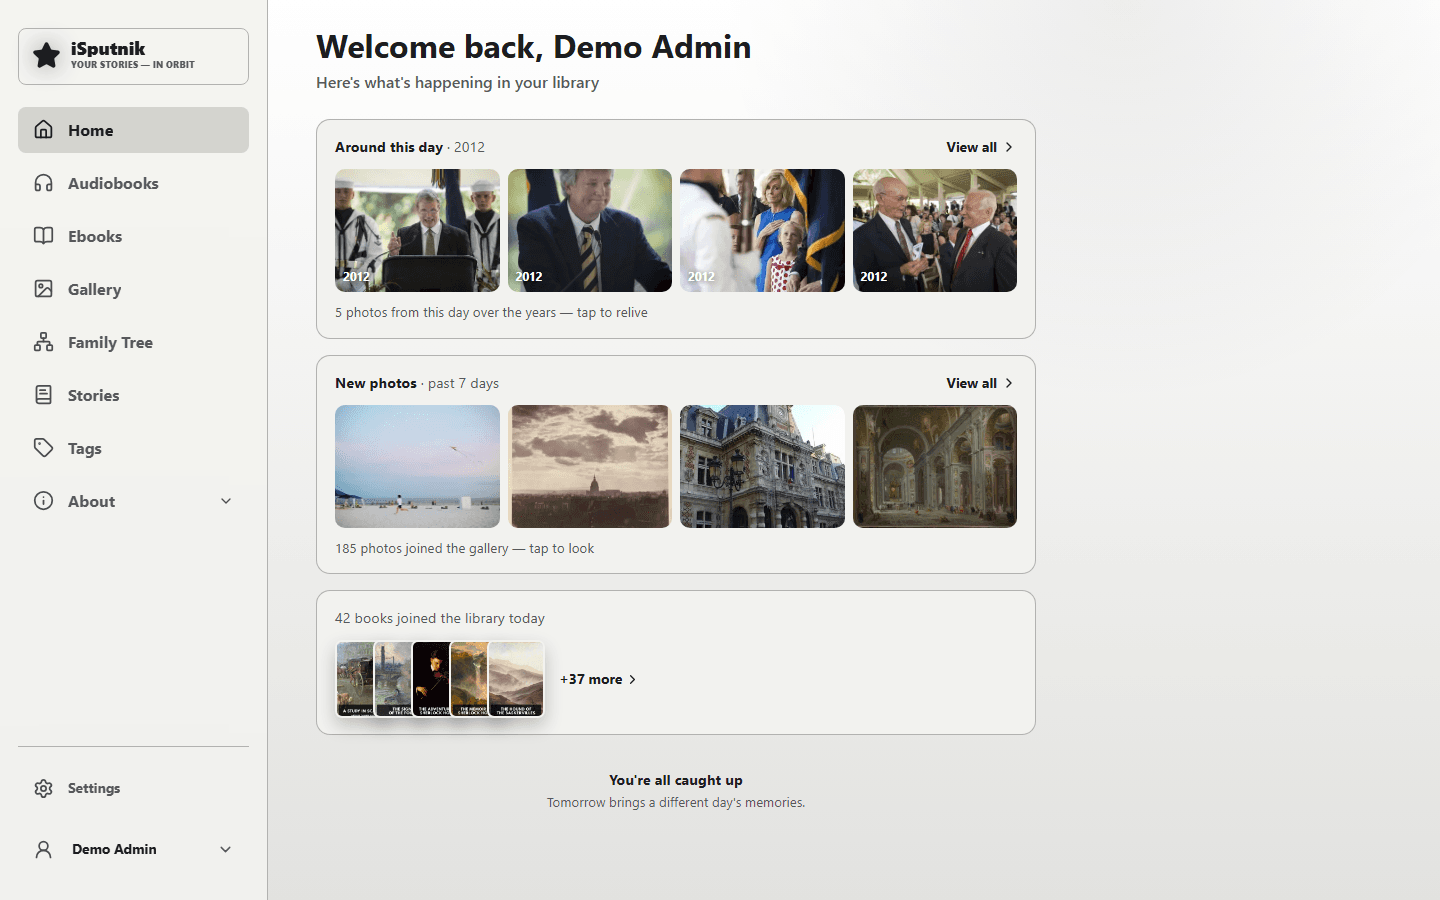
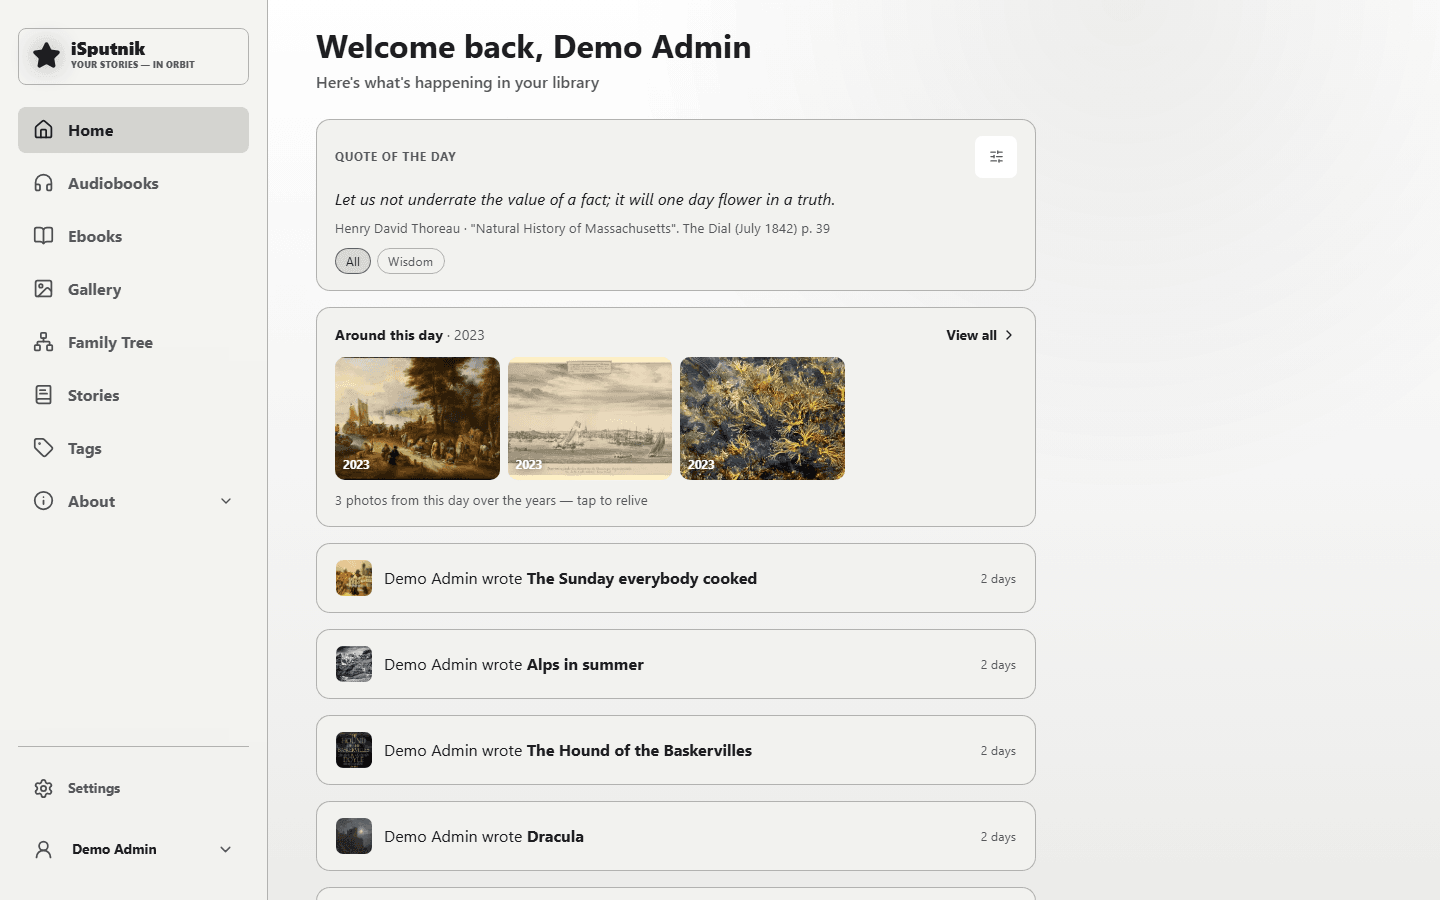
docs(guides): illustrate quotes and stories
Five more screenshots, taking the set to 31 and the guides that carry one to
18 of 19. Only family-sharing is left, and it needs a second account and a
group before there is anything to photograph.

Quotes needed content first. The English pack that ships in
scripts/quote-packs was imported into the demo library — 100 quotes from 17
authors, every one of whom died more than seventy years ago, so the
quotations themselves are public domain. Wikiquote's compilation is CC BY-SA,
which would matter only if the pack were republished, not for quoting Thoreau
in a screenshot.

02-home is recaptured as a side effect: the quote of the day only appears once
something is in rotation, so the old shot of the home page was missing the
card the quotes guide points at.

The two story shots open the index and click through by title. A story's
address contains its id, which differs on every install, so deep-linking would
have produced shots that only reproduce on the machine that took them. The
first attempt matched anchors with startsWith and silently photographed the
index twice — a story card's text begins with its status badge, so the title
is in the middle, not at the front.

Also corrects the workbox comment: the guides are nineteen files and ~160 KB
of text, and their screenshots are ~3 MB, not the twelve files and 1.8 MB it
claimed. The screenshots stay out of the precache, which the build confirms —
19 guides precached, 0 images.

diff --git a/apps/web/vite.config.ts b/apps/web/vite.config.ts
@@ -95,8 +95,8 @@ export default defineConfig({
       },
       workbox: {
         // Precache the app shell so the UI boots with no network. The guides are
-        // included — all twelve are ~55 KB of text, and help is exactly what you
-        // want when something isn't working. Their screenshots are ~1.8 MB and
+        // included — all nineteen are ~160 KB of text, and help is exactly what
+        // you want when something isn't working. Their screenshots are ~3 MB and
         // are NOT precached; they load over the network and stick in the runtime
         // image cache below, so an offline guide reads fine minus the pictures.
         globPatterns: ["**/*.{js,css,html,svg,woff2}", "guides/*.md"],

diff --git a/docs/users/stories.md b/docs/users/stories.md
@@ -14,6 +14,8 @@ show anyone something they couldn't already see: every photo, album and book
 in it is checked against the reader's own library access, and anything out of
 reach appears as a polite placeholder rather than a leak.
 
+![The Stories index: collections above, then every story as a card](images/90-stories.png)
+
 ## Starting a story
 
 **Stories → New story.** It asks for a title and what kind of story this is,
@@ -176,6 +178,8 @@ Opening a story leaves the app behind — no menus, no library chrome, just the
 story's name, its chapters, and a way back. That's deliberate: a story is
 made to be read and handed round, like a small website of its own.
 
+![A chaptered story open for reading, its chapters listed beside it](images/91-story.png)
+
 A story with chapters reads as a page with **its own navigation beside it**:
 every stop on the journey, with the photo it opens on and the day it happened,
 staying in view while you read — so you can always see the shape of the whole
@@ -216,6 +220,8 @@ Pick a recordings library the whole family can view, or the narration will be
 missing for people without access to it.
 
 ## Collections
+
+![A collection's page: its description, how many stories, and the stories themselves](images/92-story-collection.png)
 
 Collections are shelves for stories: **"Family Story"**, **"Trips"** — a
 name, a cover, and the stories that belong together. A collection's page lays

diff --git a/docs/users/quotes.md b/docs/users/quotes.md
@@ -8,6 +8,8 @@ They all live in one place — **Quotes**, in your library menu — and turn up
 wherever they're relevant: on the home page as the quote of the day, and on a
 relative's page in the family tree.
 
+![The Quotes page, grouped by author, with the filters above](images/80-quotes.png)
+
 ## Where quotes come from
 
 **While reading.** Select a passage in the ebook reader and save it. The
@@ -176,6 +178,8 @@ A single file can hold up to 5,000 quotes. A bigger one is refused rather than
 half-imported — split it and run it twice.
 
 ### Undoing an import
+
+![The Quotes utility page, listing one import with its own Delete](images/81-quotes-import.png)
 
 Every import is kept as the event it was — the file name, when it came in, and
 how many of its quotes are still here. Each one has its own **Delete**, which
